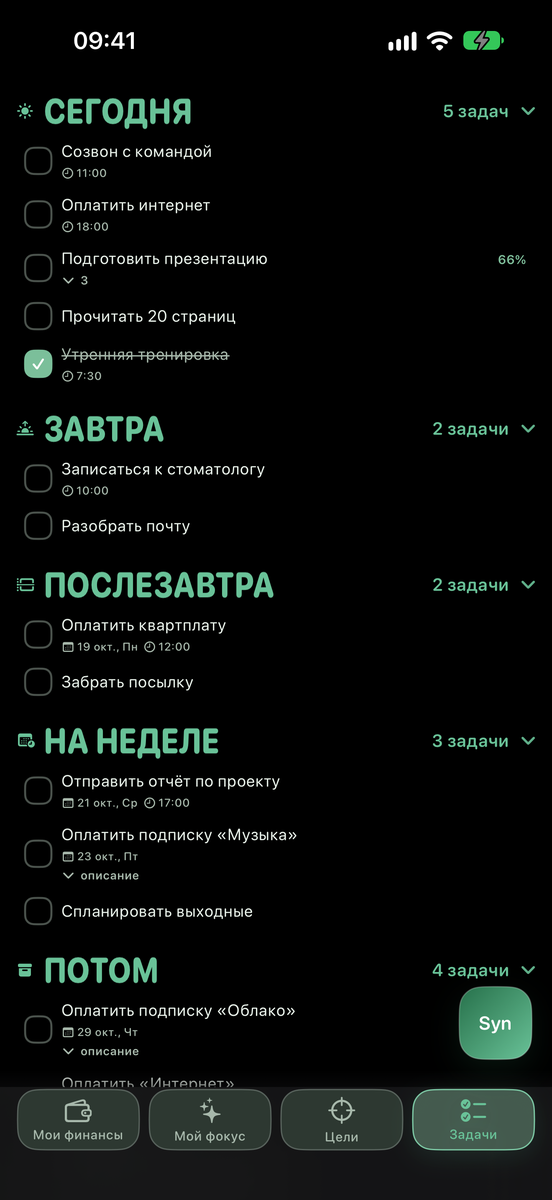
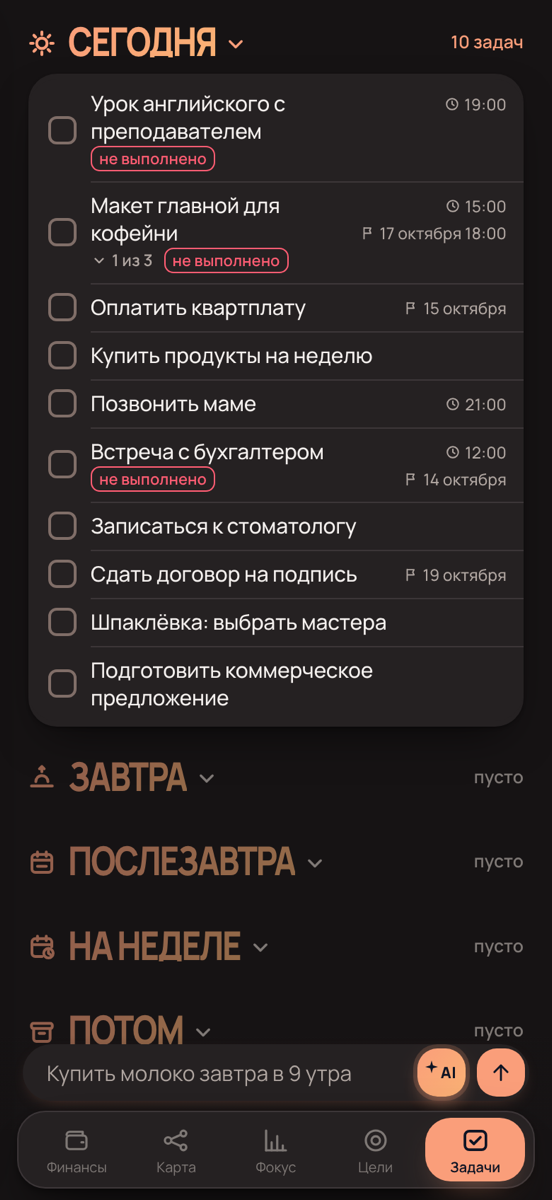
Сайт в стиле веб-сервиса: «Закат», тёплое поле, карточки на тени
Разметка и тексты прежние — меняется слой site-theme.css: цвет темы
«Закат» вместо изумруда, поле с каплей цвета, белые карточки на тени без
обводки, кнопки с мягкой цветной тенью, мелкий текст цветом темы —
притемнённым до 4,5 к белому. Снимки в ноутбуке и телефоне и семь
карточек галереи пересняты в новом виде сервиса (карточки — JPEG вместо
WebP: тексты на них прежние). Подвал оформления — тихие ссылки, у кнопок
внутренних страниц пропало сиреневое свечение.

diff --git a/site-theme.css b/site-theme.css
@@ -17,31 +17,40 @@
   экрана, цвет — на кнопках, акцентах и одной тёмной секции.
 
   Фирменный цвет — изумруд («дорогой зелёный»): из четырёх примеренных
-  вариантов (изумруд, индиго, сапфир, графит) выбран он, 17 октября 2026. */
+  вариантов (изумруд, индиго, сапфир, графит) выбран он, 17 октября 2026.
+
+  21 октября 2026 веб-версия переехала на вид айфона: тёплое поле с каплей
+  цвета темы, белые карточки на тени без обводки, один цвет — «Закат». Сайт
+  идёт следом, чтобы снимки на нём и страница вокруг были одного продукта:
+  та же пара цветов, то же поле и те же тени, что в app/web/theme.js.
+  Разметка и тексты сайта прежние — меняется только этот слой. */
 
 :root {
   /* ---- фирменная пара: светлая тема ---- */
-  --b1: #0f6e55;            /* emerald: глубокий изумруд */
-  --b2: #2a9d78;
-  --b-deep: #0a3d30;        /* тёмная секция */
-  --b-soft: #e3f1ec;
+  --b1: #e05f3b;            /* «Закат» — как в приложении для айфона */
+  --b2: #e68f33;
+  --b-deep: #231814;        /* тёмная секция — тёплый графит, не чёрный */
+  --b-soft: #fcefeb;
+  --b-text: #b8461f;        /* цвет темы буквами: держит 4,5 к белому */
 
-  /* ---- нейтральная основа: «Чистый светлый» ---- */
-  --bg: #f4f6f5;
+  /* ---- нейтральная основа: поле с каплей цвета темы ---- */
+  --bg: #f3edeb;
   --surface: #ffffff;
-  --surface-2: #eceff0;
+  --surface-2: #f6f1ef;
   --surface-elevated: #ffffff;
-  --bg-band: #eceff0;
-  --text: #0e1424;
-  --muted: #4b5466;
-  --muted-strong: #424b5c;
-  --disabled: #9aa2b1;
-  --stroke: #e1e5ea;
-  --stroke-strong: #cfd5dd;
-  --divider: #e7eaef;
-  --track: #e3e7ec;
+  --bg-band: #efe7e4;
+  --text: #1c1512;
+  --muted: #544a46;
+  --muted-strong: #4a403c;
+  --disabled: #a39894;
+  --stroke: #ece4e1;
+  --stroke-strong: #ddd2ce;
+  --divider: #ece4e1;
+  --track: #eee7e5;
 
-  --shadow: 0 1px 2px rgba(16, 24, 40, 0.05), 0 12px 32px -12px rgba(16, 24, 40, 0.12);
+  --shadow: 0 1px 2px rgba(30, 20, 10, 0.04), 0 12px 32px -14px rgba(30, 20, 10, 0.16);
+  --shadow-lift: 0 2px 6px rgba(30, 20, 10, 0.06), 0 22px 48px -16px rgba(30, 20, 10, 0.26);
+  --glow: 0 10px 24px -10px rgba(224, 95, 59, 0.7);
 }
 
 
@@ -49,48 +58,54 @@
    Глубокий графит, но не чёрный: на чистом #0b0e10 владелец сказал «слишком
    чёрный фон». Фон поднят до #151a1e, карточки — на ступень светлее. */
 :root[data-theme="dark"] {
-  --b1: #4cc39b;
-  --b2: #2fb0a0;
-  --b-deep: #0d2a22;
-  --b-soft: rgba(76, 195, 155, 0.14);
+  --b1: #fa9e7a;
+  --b2: #fabb71;
+  --b-deep: #1f1714;
+  --b-soft: rgba(250, 158, 122, 0.16);
+  --b-text: #fa9e7a;
 
-  --bg: #151a1e;
-  --surface: #1c2227;
-  --surface-2: #232a30;
-  --surface-elevated: #283037;
-  --bg-band: #181e22;
-  --text: #f2f4f8;
-  --muted: #a6aec0;
-  --muted-strong: #b4bbcb;
-  --disabled: #6b7385;
-  --stroke: #2d353d;
-  --stroke-strong: #3a434c;
-  --divider: #272e35;
-  --track: #2b333a;
-  --shadow: 0 1px 0 rgba(255, 255, 255, 0.03) inset, 0 16px 40px -18px rgba(0, 0, 0, 0.7);
+  --bg: #161314;
+  --surface: #252122;
+  --surface-2: #2c2728;
+  --surface-elevated: #312b2c;
+  --bg-band: #1b1718;
+  --text: #f4f0ee;
+  --muted: #b5aeab;
+  --muted-strong: #c2bbb8;
+  --disabled: #7a7270;
+  --stroke: #342e2f;
+  --stroke-strong: #423a3b;
+  --divider: #2f292a;
+  --track: #2e2829;
+  --shadow: 0 1px 2px rgba(0, 0, 0, 0.3), 0 14px 34px -14px rgba(0, 0, 0, 0.7);
+  --shadow-lift: 0 2px 6px rgba(0, 0, 0, 0.4), 0 22px 48px -14px rgba(0, 0, 0, 0.8);
+  --glow: 0 10px 24px -10px rgba(250, 158, 122, 0.6);
 }
 /* То же для системной тёмной темы, пока выбор не сделан явно. */
 @media (prefers-color-scheme: dark) {
   :root:not([data-theme="light"]) {
-    --b1: #4cc39b;
-    --b2: #2fb0a0;
-    --b-deep: #0d2a22;
-    --b-soft: rgba(76, 195, 155, 0.14);
-  
-    --bg: #151a1e;
-    --surface: #1c2227;
-    --surface-2: #232a30;
-    --surface-elevated: #283037;
-    --bg-band: #181e22;
-    --text: #f2f4f8;
-    --muted: #a6aec0;
-    --muted-strong: #b4bbcb;
-    --disabled: #6b7385;
-    --stroke: #2d353d;
-    --stroke-strong: #3a434c;
-    --divider: #272e35;
-    --track: #2b333a;
-    --shadow: 0 1px 0 rgba(255, 255, 255, 0.03) inset, 0 16px 40px -18px rgba(0, 0, 0, 0.7);
+    --b1: #fa9e7a;
+    --b2: #fabb71;
+    --b-deep: #1f1714;
+    --b-soft: rgba(250, 158, 122, 0.16);
+    --b-text: #fa9e7a;
+
+    --bg: #161314;
+    --surface: #252122;
+    --surface-2: #2c2728;
+    --surface-elevated: #312b2c;
+    --bg-band: #1b1718;
+    --text: #f4f0ee;
+    --muted: #b5aeab;
+    --muted-strong: #c2bbb8;
+    --disabled: #7a7270;
+    --stroke: #342e2f;
+    --stroke-strong: #423a3b;
+    --divider: #2f292a;
+    --track: #2e2829;
+    --shadow: 0 1px 2px rgba(0, 0, 0, 0.3), 0 14px 34px -14px rgba(0, 0, 0, 0.7);
+    --shadow-lift: 0 2px 6px rgba(0, 0, 0, 0.4), 0 22px 48px -14px rgba(0, 0, 0, 0.8);
+    --glow: 0 10px 24px -10px rgba(250, 158, 122, 0.6);
   }
 }
 
@@ -109,7 +124,7 @@
   --accent-soft: var(--b-soft);
   --bg-dark: var(--b-deep);
   --text-on-dark: #ffffff;
-  --muted-on-dark: rgba(255, 255, 255, 0.78);
+  --muted-on-dark: rgba(255, 255, 255, 0.82);
   --ink-on-forest: #ffffff;
   --ink-on-forest-soft: rgba(255, 255, 255, 0.86);
   --brass-on-forest: #ffffff;
@@ -129,10 +144,10 @@
   --forest-deep: color-mix(in srgb, var(--b1) 88%, #fff);
   --forest-active: color-mix(in srgb, var(--b1) 76%, #fff);
   --text-on-dark: #ffffff;
-  --ink-on-forest: #10161a;
-  --ink-on-forest-soft: rgba(11, 14, 16, 0.82);
-  --brass-on-forest: #0b0e10;
-  --tick-on-forest: rgba(11, 14, 16, 0.2);
+  --ink-on-forest: #1c1512;
+  --ink-on-forest-soft: rgba(28, 21, 18, 0.82);
+  --brass-on-forest: #1c1512;
+  --tick-on-forest: rgba(28, 21, 18, 0.2);
 }
 
 body { background: var(--bg); }
@@ -365,26 +380,73 @@ body { background: var(--bg); }
   background: #10161a; color: #ffffff; box-shadow: 0 14px 30px -14px rgba(0, 0, 0, 0.6);
 }
 
-/* ---- главные кнопки — глубокий изумруд ----
-   Градиент от --b1 к --b2 уходил в светло-зелёный: белый текст на светлом
-   конце терял контраст, и кнопка «Открыть Synapse в браузере» выглядела
-   выцветшей — владелец попросил поправить. Теперь основа — глубокий
-   фирменный цвет, как у годовой карточки, и лишь лёгкий перелив сверху. */
+/* ---- главные кнопки — цветом темы ----
+   Было: глубокий изумруд с переливом — тёмный, чтобы белый текст не терял
+   контраст на светлом конце градиента. С «Закатом» кнопка — ровная заливка
+   цветом темы с мягкой цветной тенью, как главная кнопка в приложении. */
 .btn-primary, .btn-app, .btn-web,
 .hero .btn-web {
-  background:
-    linear-gradient(180deg, rgba(255,255,255,.10), rgba(255,255,255,0) 55%),
-    linear-gradient(135deg, var(--b1), color-mix(in srgb, var(--b1) 82%, #000));
+  background: var(--b1);
   color: #fff;
   font-weight: 700;
-  box-shadow: 0 1px 0 rgba(255,255,255,.18) inset, 0 12px 26px -14px var(--b1);
+  border-color: transparent;
+  box-shadow: var(--glow);
 }
-.btn-primary:hover, .btn-app:hover, .btn-web:hover { filter: brightness(1.08); }
-/* В тёмной теме фирменный цвет светлый — кнопка мятная с тёмным текстом. */
+.btn-primary:hover, .btn-app:hover, .btn-web:hover { filter: brightness(1.05); }
 :root[data-theme="dark"] .btn-primary, :root[data-theme="dark"] .btn-app, :root[data-theme="dark"] .btn-web {
-  background:
-    linear-gradient(180deg, rgba(255,255,255,.16), rgba(255,255,255,0) 55%),
-    var(--b1);
-  color: #0b1512;
-  box-shadow: 0 12px 26px -14px var(--b1);
+  background: var(--b1);
+  color: #1c1512;
+  box-shadow: var(--glow);
 }
+
+/* ---- новый вид, 21.10.2026: глубина вместо обводок ----
+   Карточки, тарифы и вторичные кнопки — белые на тени, без рамки, как в
+   приложении (Refactoring UI: тень отделяет слой лучше линии и не рябит).
+   Скругления крупнее — 24 у карточек, 16 у кнопок. */
+.card, .feature, .plan, .plan-soft {
+  border-color: transparent;
+  border-radius: 24px;
+  box-shadow: var(--shadow);
+}
+.card:hover, .feature:hover { border-color: transparent; box-shadow: var(--shadow-lift); }
+.plan-soft { border: 0; box-shadow: 0 0 0 2px color-mix(in srgb, var(--b1) 30%, transparent), var(--shadow); }
+.plan-hero {
+  background:
+    radial-gradient(90% 70% at 100% 0%, color-mix(in srgb, var(--b2) 55%, transparent), transparent 70%),
+    var(--b1);
+  box-shadow: var(--glow);
+}
+.plan-hero .btn-plan-primary, .plan-hero .btn-plan-primary:hover { color: var(--b-text); }
+.plan-hero .btn-plan-primary:hover { background: #fff7f4; }
+.plan .btn-plan.btn-ghost:not(.btn-disabled),
+.plan .btn-plan.btn-disabled { color: var(--b-text); }
+.plan .btn-plan.btn-ghost:not(.btn-disabled):hover { color: var(--b-text); }
+.btn, .btn-plan { border-radius: 16px; }
+.btn-ghost, .hero .btn-ios, .hero .btn-android {
+  background: var(--surface); color: var(--text); border-color: transparent; box-shadow: var(--shadow);
+}
+.btn-ghost:hover { border-color: transparent; color: var(--b-text); box-shadow: var(--shadow-lift); }
+
+/* Мелкий текст цветом темы — притемнённым: «Закат» на белом даёт 3,4 из
+   нужных 4,5, для кнопки хватает, для подписи нет. */
+.eyebrow { background: var(--b-soft); color: var(--b-text); }
+.card-num, .card:hover .card-num { color: var(--b-text); }
+.hint a, .fineprint a, .footer a:hover { color: var(--b-text); }
+
+/* Корпус ноутбука был зеленоватым графитом под прежний лес — теперь
+   нейтральный тёплый графит, как рамка телефона. */
+.laptop-screen { background: linear-gradient(158deg, #2f2b2a 0%, #45403e 26%, #262221 62%, #3a3533 100%); }
+.laptop-base { background: linear-gradient(180deg, #45403e 0%, #221e1d 100%); }
+.gallery-card img { box-shadow: 0 24px 48px -24px rgba(60, 30, 15, 0.45); }
+.gallery-nav { border-color: transparent; }
+.gallery-nav:hover { border-color: transparent; color: var(--b-text); }
+
+/* Главная кнопка внутренних страниц (site.css) светилась сиреневым —
+   остаток самого первого макета. Тень — цветом темы, как везде. */
+.button:not(.secondary):not(.ghost) { box-shadow: var(--glow); }
+
+/* Подвал оформления: ссылки шли сплошной подчёркнутой строкой цветом
+   темы и спорили с кнопкой оплаты. Теперь тихие, как в подвале главной. */
+.footer-links { display: flex; flex-wrap: wrap; gap: 8px 20px; }
+.footer-links a { color: var(--muted); text-decoration: none; }
+.footer-links a:hover { color: var(--b-text); }

diff --git a/index.html b/index.html
@@ -156,7 +156,7 @@
                      проявляется по загрузке — пока его нет, виден макет, и
                      страница ни секунды не показывает пустой прямоугольник. -->
                 <div class="screen-inner">
-                <img class="webshot-img" src="./screens/web-1.png?v=4a16fc83" data-dark-src="./screens/web-1-dark.png?v=8fdb8faa" alt="Веб-версия Synapse: экран задач"
+                <img class="webshot-img" src="./screens/web-1.png?v=5661dc8f" data-dark-src="./screens/web-1-dark.png?v=7bff8727" alt="Веб-версия Synapse: экран задач"
                      loading="eager" onload="this.classList.add('ok')">
                 <div class="webshot">
                   <div class="ws-top">
@@ -193,7 +193,7 @@
             <div class="duo-phone">
               <div class="device">
                 <div class="device-screen">
-                  <img src="./screens/app-1.png?v=0b44676b" data-dark-src="./screens/app-1-dark.png?v=949cb5bd" alt="Synapse на телефоне: экран задач"
+                  <img src="./screens/app-1.png?v=06d0a9b4" data-dark-src="./screens/app-1-dark.png?v=d102fdc7" alt="Synapse на телефоне: экран задач"
                        width="552" height="1200" fetchpriority="high"
                        onerror="this.onerror=null; this.src='./screens/screen-1.png'">
                   <span class="device-island" aria-hidden="true"></span>
@@ -254,13 +254,13 @@
         <h2 class="section-title">День, цель и путь — в одном месте</h2>
         <div class="gallery">
           <ul class="gallery-track" id="gallery" tabindex="0" aria-label="Экраны приложения для iPhone">
-            <li class="gallery-card"><img src="./screens/cards/tasks.webp?v=14314eeb" alt="Задачи: все дела по дням — сегодня, завтра, на неделе" loading="lazy" width="660" height="1434"></li>
-            <li class="gallery-card"><img src="./screens/cards/finance.webp?v=14bc9e62" alt="Мои финансы: свободный остаток, копилки, долги и итоги месяца" loading="lazy" width="660" height="1434"></li>
-            <li class="gallery-card"><img src="./screens/cards/syn.webp?v=03e0d4ee" alt="Ассистент Syn: пиши или говори — план меняется сам" loading="lazy" width="660" height="1434"></li>
-            <li class="gallery-card"><img src="./screens/cards/focus.webp?v=ae47b66e" alt="Мой фокус: главное на день и отчёт Syn" loading="lazy" width="660" height="1434"></li>
-            <li class="gallery-card"><img src="./screens/cards/spending.webp?v=1cc6f761" alt="Траты: «кофе 350» — и записано" loading="lazy" width="660" height="1434"></li>
-            <li class="gallery-card"><img src="./screens/cards/goals.webp?v=05d0bfab" alt="Цели: большие цели по шагам" loading="lazy" width="660" height="1434"></li>
-            <li class="gallery-card"><img src="./screens/cards/map.webp?v=ee013726" alt="Карта целей: цели, этапы и задачи на одном полотне" loading="lazy" width="660" height="1434"></li>
+            <li class="gallery-card"><img src="./screens/cards/tasks.jpg?v=f203da85" alt="Задачи: все дела по дням — сегодня, завтра, на неделе" loading="lazy" width="660" height="1434"></li>
+            <li class="gallery-card"><img src="./screens/cards/finance.jpg?v=26c2fee3" alt="Мои финансы: свободный остаток, копилки, долги и итоги месяца" loading="lazy" width="660" height="1434"></li>
+            <li class="gallery-card"><img src="./screens/cards/syn.jpg?v=106d15ca" alt="Ассистент Syn: пиши или говори — план меняется сам" loading="lazy" width="660" height="1434"></li>
+            <li class="gallery-card"><img src="./screens/cards/focus.jpg?v=f98e9649" alt="Мой фокус: главное на день и отчёт Syn" loading="lazy" width="660" height="1434"></li>
+            <li class="gallery-card"><img src="./screens/cards/spending.jpg?v=d567b562" alt="Траты: «кофе 350» — и записано" loading="lazy" width="660" height="1434"></li>
+            <li class="gallery-card"><img src="./screens/cards/goals.jpg?v=9bc814d6" alt="Цели: большие цели по шагам" loading="lazy" width="660" height="1434"></li>
+            <li class="gallery-card"><img src="./screens/cards/map.jpg?v=fcb90fc5" alt="Карта целей: цели, этапы и задачи на одном полотне" loading="lazy" width="660" height="1434"></li>
           </ul>
           <button class="gallery-nav prev" type="button" data-gallery="-1" aria-label="Назад">‹</button>
           <button class="gallery-nav next" type="button" data-gallery="1" aria-label="Дальше">›</button>

diff --git a/en/index.html b/en/index.html
@@ -96,7 +96,7 @@
             <div class="laptop" aria-label="Synapse web version in the browser">
               <div class="laptop-screen">
                 <div class="screen-inner">
-                <img class="webshot-img" src="../screens/web-1.png?v=4a16fc83" data-dark-src="../screens/web-1-dark.png?v=8fdb8faa" alt="Synapse web version: the tasks screen"
+                <img class="webshot-img" src="../screens/web-1.png?v=5661dc8f" data-dark-src="../screens/web-1-dark.png?v=7bff8727" alt="Synapse web version: the tasks screen"
                      loading="eager" onload="this.classList.add('ok')">
                 <div class="webshot">
                   <div class="ws-top">
@@ -133,7 +133,7 @@
             <div class="duo-phone">
               <div class="device">
                 <div class="device-screen">
-                  <img src="../screens/app-1.png?v=0b44676b" data-dark-src="../screens/app-1-dark.png?v=949cb5bd" alt="Synapse on a phone: the tasks screen"
+                  <img src="../screens/app-1.png?v=06d0a9b4" data-dark-src="../screens/app-1-dark.png?v=d102fdc7" alt="Synapse on a phone: the tasks screen"
                        width="552" height="1200" fetchpriority="high"
                        onerror="this.onerror=null; this.src='../screens/screen-1.png'">
                   <span class="device-island" aria-hidden="true"></span>
@@ -189,13 +189,13 @@
         <h2 class="section-title">Your day, your goal and your path — in one place</h2>
         <div class="gallery">
           <ul class="gallery-track" id="gallery" tabindex="0" aria-label="iPhone app screens">
-            <li class="gallery-card"><img src="../screens/cards/tasks.webp?v=14314eeb" alt="Tasks: everything by day — today, tomorrow, this week" loading="lazy" width="660" height="1434"></li>
-            <li class="gallery-card"><img src="../screens/cards/finance.webp?v=14bc9e62" alt="My finances: free balance, savings jars, debts and the month's totals" loading="lazy" width="660" height="1434"></li>
-            <li class="gallery-card"><img src="../screens/cards/syn.webp?v=03e0d4ee" alt="The Syn assistant: type or talk — the plan changes itself" loading="lazy" width="660" height="1434"></li>
-            <li class="gallery-card"><img src="../screens/cards/focus.webp?v=ae47b66e" alt="My focus: what matters today and Syn's report" loading="lazy" width="660" height="1434"></li>
-            <li class="gallery-card"><img src="../screens/cards/spending.webp?v=1cc6f761" alt="Spending: say &quot;coffee 350&quot; — and it's recorded" loading="lazy" width="660" height="1434"></li>
-            <li class="gallery-card"><img src="../screens/cards/goals.webp?v=05d0bfab" alt="Goals: big goals step by step" loading="lazy" width="660" height="1434"></li>
-            <li class="gallery-card"><img src="../screens/cards/map.webp?v=ee013726" alt="Goal map: goals, stages and tasks on one canvas" loading="lazy" width="660" height="1434"></li>
+            <li class="gallery-card"><img src="../screens/cards/tasks.jpg?v=f203da85" alt="Tasks: everything by day — today, tomorrow, this week" loading="lazy" width="660" height="1434"></li>
+            <li class="gallery-card"><img src="../screens/cards/finance.jpg?v=26c2fee3" alt="My finances: free balance, savings jars, debts and the month's totals" loading="lazy" width="660" height="1434"></li>
+            <li class="gallery-card"><img src="../screens/cards/syn.jpg?v=106d15ca" alt="The Syn assistant: type or talk — the plan changes itself" loading="lazy" width="660" height="1434"></li>
+            <li class="gallery-card"><img src="../screens/cards/focus.jpg?v=f98e9649" alt="My focus: what matters today and Syn's report" loading="lazy" width="660" height="1434"></li>
+            <li class="gallery-card"><img src="../screens/cards/spending.jpg?v=d567b562" alt="Spending: say &quot;coffee 350&quot; — and it's recorded" loading="lazy" width="660" height="1434"></li>
+            <li class="gallery-card"><img src="../screens/cards/goals.jpg?v=9bc814d6" alt="Goals: big goals step by step" loading="lazy" width="660" height="1434"></li>
+            <li class="gallery-card"><img src="../screens/cards/map.jpg?v=fcb90fc5" alt="Goal map: goals, stages and tasks on one canvas" loading="lazy" width="660" height="1434"></li>
           </ul>
           <button class="gallery-nav prev" type="button" data-gallery="-1" aria-label="Back">‹</button>
           <button class="gallery-nav next" type="button" data-gallery="1" aria-label="Next">›</button>
